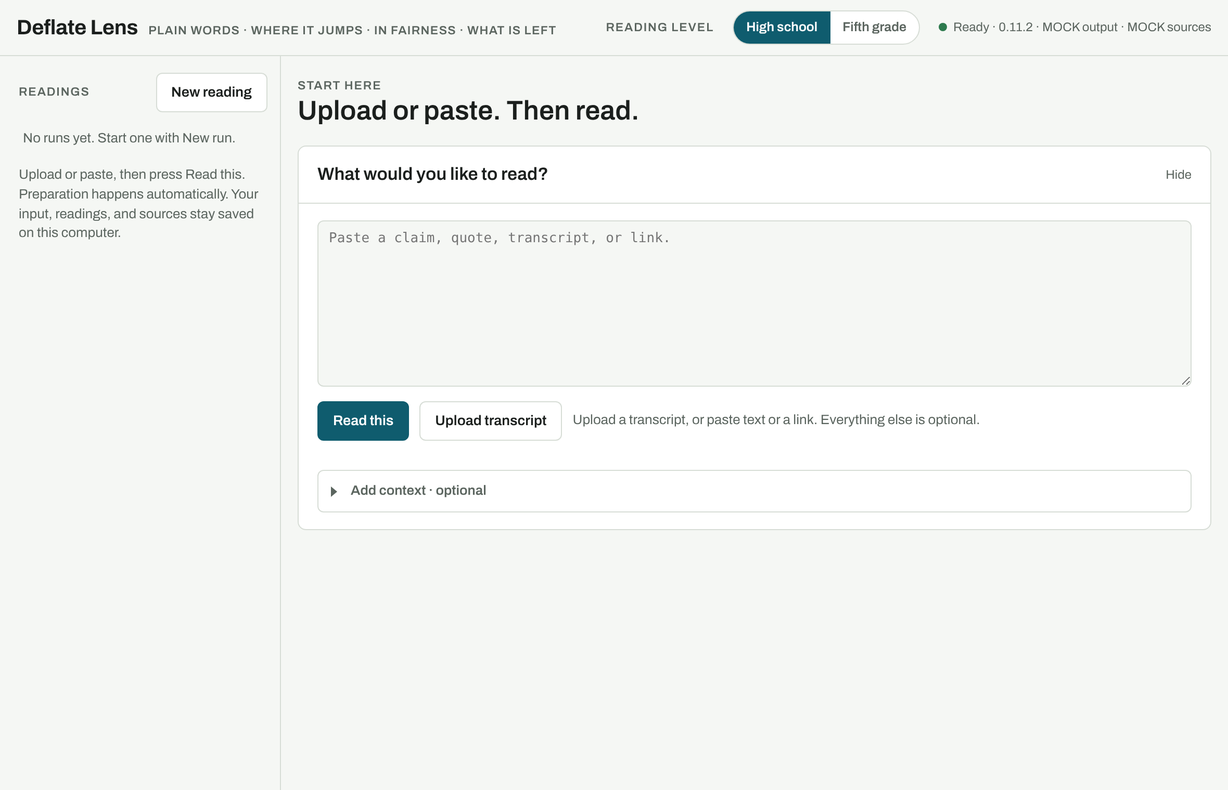
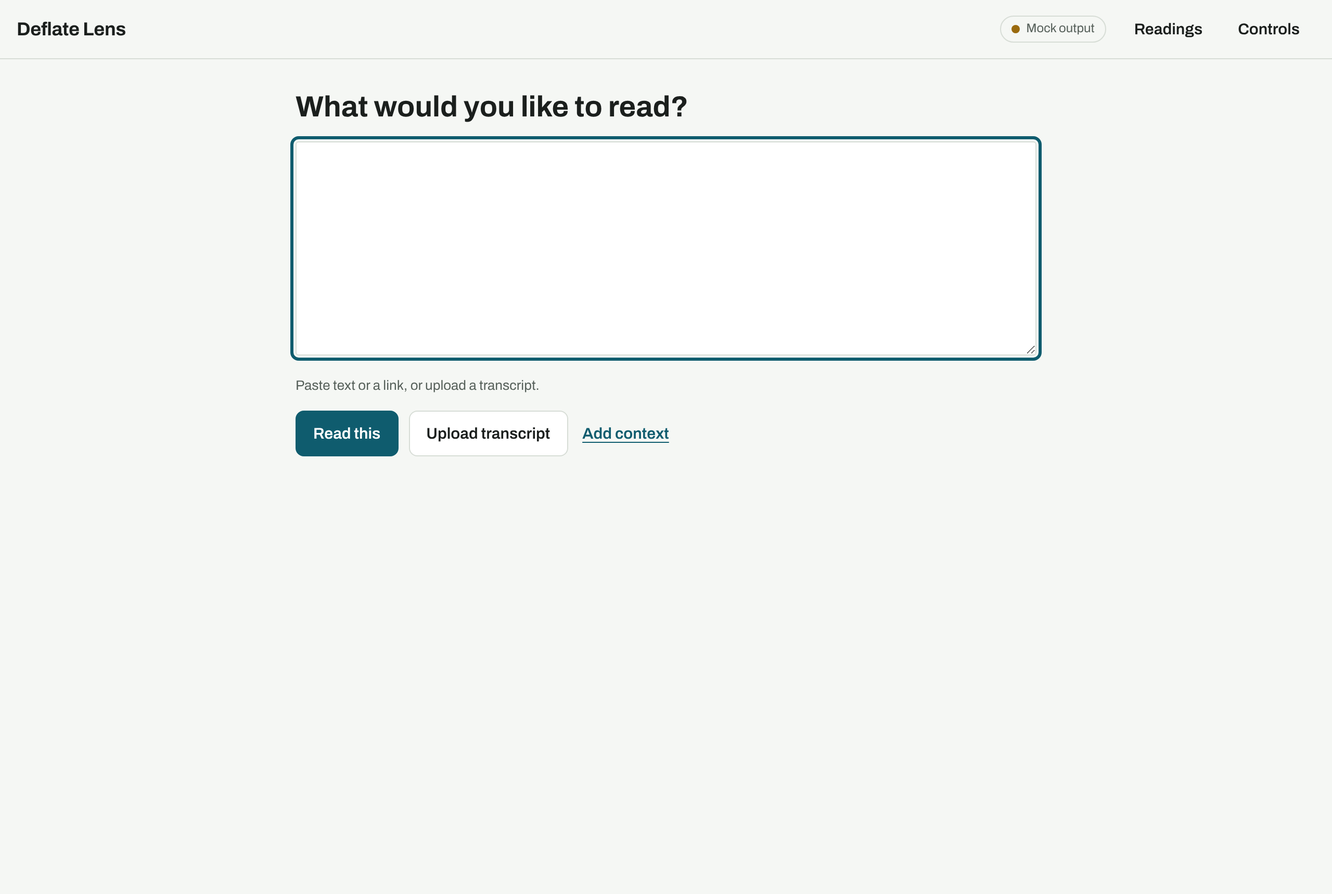
Screenshots of the 0.12 page: start, reading, Evidence, Controls, matched-source check, phone
Stand-in readings for the pictures are written to the reading-2 contract (the self-selected letters are
described as people who chose to write; quantities kept at both levels). All marked mock output.

Claude-Session: https://claude.ai/code/session_01Lg3dXKEkdQFJtRw4fXSjNY

diff --git a/scripts/screenshots.js b/scripts/screenshots.js
@@ -1,8 +1,9 @@
 "use strict";
-/* Regenerates the README screenshots in docs/screenshots/ from the real page in headless Chromium.
-   No key and no network: the podcast feed is a local fixture, and the readings come from a stand-in responder whose
-   text was written for these pictures (the page still labels it MOCK OUTPUT). The show, host and guest are invented.
-   Needs Playwright:  npm install --no-save playwright && npx playwright install chromium;  then  npm run screenshots */
+/* Regenerates the README and guide pictures in docs/screenshots/ from the real page in headless Chromium.
+   No key and no network: the podcast feed, the video search and its captions are local fixtures, and the readings come
+   from a stand-in responder whose text was written for these pictures (the page labels it Mock output). The show, host
+   and guest are invented. Needs Playwright:  npm install --no-save playwright;  then  npm run screenshots
+   (DEFLATE_CHROMIUM_EXECUTABLE points it at a Chromium already installed). */
 const fs = require("fs"), os = require("os"), path = require("path");
 const { createApp } = require("../server/app"), { createMockAI } = require("../server/ai"), { createResearch } = require("../server/research");
 
@@ -27,52 +28,53 @@ const TURNS = [
 const T = TURNS.map(([s, t]) => s + ": " + t).join("\n");
 const lv = (hs, g5) => ({ hs, g5 });
 const claim = (text, type, plain, basis, extra) => Object.assign({ text, speaker: "GUEST", type, plain, basis, status: "unchecked", wouldSettle: "", settle: lv("", "") }, extra || {});
+/* Written to the reading-2 contract: the reasons actually given, the fair reading, then a final assessment that names
+   what remains. (The self-selected letters are described as people who chose to write, not as proof of anything about
+   the people who did not.) */
 const READINGS = {
   0: {
-    asSaid: [{ turn: 1, speaker: "GUEST", quote: "Everybody who tries it for a month tells me their focus goes through the roof." }, { turn: 3, speaker: "GUEST", quote: "people who took cold showers called in sick 29% less" }],
-    deflated: lv("The guest says cold showers improve focus. His support is messages from readers who tried it, and a Dutch study in which people who took cold showers missed fewer days of work.", "He says cold showers help you focus. His proof is letters from readers and a study about sick days."),
+    asSaid: [{ turn: 1, speaker: "GUEST", quote: "Everybody who tries it for a month tells me their focus goes through the roof." }, { turn: 3, speaker: "GUEST", quote: "people who took cold showers called in sick twenty-nine percent less" }, { turn: 7, speaker: "GUEST", quote: "you should try it before you dismiss it" }],
+    deflated: lv("The guest says cold showers improve focus and calls them the best habit anyone can build. His reasons are messages from readers who tried them for a month, and a Dutch study in which people who took cold showers called in sick 29% less. When pressed, he narrows his claim to “try it before you dismiss it.”",
+      "He says cold showers help people focus and are the best habit there is. He points to messages from readers who tried it, and to a study where people who took cold showers called in sick 29% less. Later he says only that people should try it."),
     fidelity: { grade: "faithful", notes: lv("", "") },
-    jump: { present: true, pivot: "If you are not sick you get more done.", hs: "A study about fewer sick days is used as proof of better focus. Being at work more often is not the same as focusing better while there.", g5: "Missing fewer days of work is not the same as focusing better." },
-    defense: lv("Fewer sick days can mean more working time, which is a real gain. The reader messages describe real experiences, even if they are not a study.", "Missing less work is still good. And his readers really did feel better."),
-    revision: { jumpSurvives: "partly", hs: "The study may support “more days at work”, not “better focus”. The reader messages come only from people who chose to write in.", g5: "The study helps a little, but it is about sick days, not focus." },
+    jump: { present: true, pivot: "If you are not sick you get more done.", hs: "A study about sick days is used as evidence about focus. Fewer sick days does not show better focus at work.", g5: "Missing fewer work days is not the same as focusing better." },
+    defense: lv("Read as advice, the claim is modest: a cheap habit that some readers say helped them, worth trying. Fewer sick days could also mean more time at work, which is a real gain.", "If he means “give it a try,” that is a small claim. Missing fewer work days could mean more time to get work done."),
+    revision: { jumpSurvives: "partly", hs: "He is hearing from people who chose to write; other people may have had different results. The study, as he describes it, measured sick days, not focus. As a suggestion to try, the advice stands; as proof that cold showers improve focus for anyone, the reasons fall short.", g5: "He hears from people who chose to write to him. Other people may have had different results. The study counted sick days, not focus. So it is fine as something to try, but it does not show that cold showers help everyone focus." },
     claims: [
-      claim("Everybody who tries cold showers for a month reports much better focus.", "unsupported", lv("Everyone who tries cold showers for a month says they focus much better.", "Everyone who tries it says they focus better."), lv("Only people who wrote to him are counted; people it did not help would not write.", "He only hears from people who liked it.")),
-      claim("A study in the Netherlands found people who took cold showers called in sick 29% less.", "fact", lv("A Dutch study found that people who took cold showers missed 29% fewer days of work.", "A study found cold-shower people missed fewer work days."), lv("A study can be found and read; the claim is about sick days, not focus.", "We can look up this study."), { wouldSettle: "The published trial and what it measured.", settle: lv("The published Dutch trial: how many people, how long, and whether it measured focus or only sick days.", "The study itself: what it measured."), expectedSources: ["academic_paper"], searchQuery: "cold shower sickness absence randomized trial Netherlands" }),
+      claim("Everybody who tries it for a month tells me their focus goes through the roof.", "claim", lv("Everyone who tries cold showers for a month tells him their focus improves a lot. He later narrows this to the people who write to him.", "Everyone who tries it for a month tells him they focus much better. Later he says he means the people who write to him."), lv("The support is messages from readers who chose to write. The passage gives no count of people who tried it and did not write.", "His proof is letters from people who chose to write. We don't hear from people who didn't.")),
+      claim("There was a study in the Netherlands where people who took cold showers called in sick twenty-nine percent less.", "claim", lv("A study in the Netherlands found that people who took cold showers called in sick 29% less.", "A study in the Netherlands found that people who took cold showers missed 29% fewer work days."), lv("A study is named but not cited; it can be looked up. As described, it measured sick days.", "The study can be looked up. It counted sick days."), { wouldSettle: "The published trial and what it measured.", settle: lv("The published Dutch trial: how many people, for how long, and whether it measured focus or only sick days.", "The study itself: who was in it and what it counted."), expectedSources: ["academic_paper"], searchQuery: "cold shower sickness absence randomized trial Netherlands" }),
     ],
     judgments: { evidence: "weak", inference: "gap" },
   },
   8: {
-    asSaid: [{ turn: 9, speaker: "GUEST", quote: "Phones are destroying our attention." }, { turn: 13, speaker: "GUEST", quote: "I did that and wrote this whole book in six months." }],
-    deflated: lv("Phones hurt attention. A survey said people check their phones about 96 times a day. Keeping the phone in another room for the first hour worked for the author.", "Phones make it hard to pay attention. Putting the phone away for an hour helped him write his book."),
+    asSaid: [{ turn: 9, speaker: "GUEST", quote: "Phones are destroying our attention." }, { turn: 11, speaker: "GUEST", quote: "It is from a survey a few years ago. I think it is still about right." }, { turn: 13, speaker: "GUEST", quote: "I did that and wrote this whole book in six months." }],
+    deflated: lv("The guest says phones are destroying attention. He cites a survey figure of about 96 phone checks a day, from a few years ago, which he thinks is still about right. His fix is to leave the phone in another room for the first hour; he did that and wrote his book in six months.",
+      "He says phones are hurting our attention. He remembers a survey that said people check their phones about 96 times a day, and he thinks that is still close. His tip is to keep the phone in another room for the first hour. He did that and wrote his book in six months."),
     fidelity: { grade: "faithful", notes: lv("", "") },
-    jump: { present: true, pivot: "I did that and wrote this whole book in six months.", hs: "One person’s success is offered as proof that the fix works. It shows the fix can work for someone, not that it works for most people.", g5: "It worked for him. That does not mean it works for everyone." },
-    defense: lv("He offers his own story as an example, and the advice costs nothing to try.", "He is just sharing what worked for him, and it is free to try."),
-    revision: { jumpSurvives: "partly", hs: "As advice, it is reasonable to try. As proof that it works, one story is not enough.", g5: "Fine to try. Not proof." },
+    jump: { present: true, pivot: "I did that and wrote this whole book in six months.", hs: "One person’s result is offered as evidence that the fix works. It shows the habit can work for someone, not that it works for most people.", g5: "It worked for him. That does not show it works for most people." },
+    defense: lv("As personal advice, the suggestion costs little, and his own result shows it can work for at least one person.", "It is free to try, and it did work for him."),
+    revision: { jumpSurvives: "partly", hs: "His own result shows the habit can work for someone, not that it works for most people. The survey figure is unsourced and, by his account, a few years old. The broad claim that phones are “destroying” attention is not supported by these reasons; the advice to try an hour without the phone stands as a suggestion.", g5: "His story shows it can work for one person. We don't know where the survey number came from, and it is a few years old. So the big claim about phones is not shown here. Trying an hour without your phone is still a fair idea to try." },
     claims: [
-      claim("The average person checks their phone ninety-six times a day.", "fact", lv("The average person checks their phone about 96 times a day.", "People check their phones about 96 times a day."), lv("He names a survey but not which one; the number can be looked up.", "We can look for the survey."), { wouldSettle: "The survey behind the number.", settle: lv("The survey itself: who was asked, when, and how “checks” was counted.", "Find the survey and see how they counted."), expectedSources: ["academic_paper"], searchQuery: "smartphone checks per day survey average" }),
-      claim("Leaving the phone in another room for the first hour helped him write a book in six months.", "interpretation", lv("Keeping his phone away for an hour each morning helped him finish his book in six months.", "Putting his phone away helped him write fast."), lv("It is his own account of his own year.", "Only he knows this.")),
+      claim("The average person checks their phone ninety-six times a day.", "claim", lv("The average person checks their phone about 96 times a day, according to a survey from a few years ago.", "People check their phones about 96 times a day, a survey said a few years ago."), lv("He names a survey but not which one; he says it is a few years old.", "He doesn't say which survey."), { wouldSettle: "The survey behind the number.", settle: lv("The survey itself: who was asked, when, and how a “check” was counted.", "Find the survey and see how they counted."), expectedSources: ["survey_report"], searchQuery: "smartphone checks per day survey average" }),
+      claim("Phones are destroying our attention.", "claim", lv("Phones are seriously harming people's attention.", "Phones are badly hurting how well people pay attention."), lv("No support is given in this passage beyond the survey figure about checking.", "He gives no proof here except the number about checking phones."), { wouldSettle: "Research on phone use and attention.", settle: lv("Studies that measure attention before and after changes in phone use.", "Studies that test attention when people use their phones less."), expectedSources: ["academic_paper"], searchQuery: "smartphone use attention span longitudinal study" }),
+      claim("Leave it in another room for the first hour.", "value", lv("He recommends keeping the phone in another room for the first hour of the day.", "He suggests keeping your phone in another room for the first hour."), lv("A recommendation, supported by his own experience.", "This is his advice, from what worked for him.")),
     ],
     judgments: { evidence: "weak", inference: "gap" },
   },
 };
+const OVERVIEW = { patterns: [{ title: lv("Evidence about a few people stands in for a general rule", "A few people's results are treated as a rule"), body: lv("In both passages the final assessment finds the same gap: results from people who chose to write in, or from the author himself, are offered as if they showed what will happen for anyone.", "Both times, what happened to a few people is used to say what will happen to everyone."), passages: ["p001", "p002"] }], survived: lv("Two habits that are cheap to try, and a named study worth reading for what it actually measured.", "Two free things to try, and one study to read.") };
 function standIn() {
   const base = createMockAI();
+  const answer = (data, id) => ({ data: JSON.parse(JSON.stringify(data)), text: JSON.stringify(data), usage: null, model: "mock", requestId: "shot_" + id, stopReason: "end_turn" });
   return Object.assign({}, base, {
     async sample(req) {
       const p = String(req.prompt || "");
-      if (p.startsWith("You are a deflation reader") && !p.startsWith("You are a deflation reader grading ONE claim")) {
-        const first = Number((/^\[(\d+)\] /m.exec(p) || [])[1]);
-        const data = READINGS[first];
-        if (data) return { data: JSON.parse(JSON.stringify(data)), text: JSON.stringify(data), usage: null, model: "mock", requestId: "shot_" + first, stopReason: "end_turn" };
+      if (p.startsWith("Help a reader understand this passage accurately.") && !p.includes("This is ONE claim")) {
+        const first = Number((/PASSAGE \(turns (\d+)/.exec(p) || [])[1]);
+        if (READINGS[first] && /Passage title: (Cold showers and focus|Phones and attention)/.test(p)) return answer(READINGS[first], first);
       }
-      if (p.startsWith("Split this transcript")) {
-        const data = { passages: [{ title: "Cold showers and focus", turnStart: 0, turnEnd: 7, stake: "Whether cold showers make people more productive." }, { title: "Phones and attention", turnStart: 8, turnEnd: 15, stake: "Whether keeping the phone away helps people focus." }] };
-        return { data, text: JSON.stringify(data), usage: null, model: "mock", requestId: "shot_segment", stopReason: "end_turn" };
-      }
-      if (/^Below are the (full )?results of deflating/.test(p)) {
-        const data = { patterns: [{ title: lv("One person’s result stands in for a rule", "One story used as proof"), body: lv("Both times, a result that holds for some people (readers who wrote in, the author himself) is presented as what will happen to anyone.", "Twice, he takes what worked for a few people and says it works for everyone."), passages: ["p001", "p002"] }], survived: lv("Two habits that are cheap to try, and one study worth reading for what it actually measured.", "Two free things to try, and one study to read.") };
-        return { data, text: JSON.stringify(data), usage: null, model: "mock", requestId: "shot_patterns", stopReason: "end_turn" };
-      }
+      if (p.startsWith("Split this transcript") && p.includes("The Long Table")) return answer({ passages: [{ title: "Cold showers and focus", turnStart: 0, turnEnd: 7, stake: "Whether cold showers make people more productive." }, { title: "Phones and attention", turnStart: 8, turnEnd: 15, stake: "Whether keeping the phone away helps people focus." }] }, "segment");
+      if (p.startsWith("Below are the final readings of 2 passages") && p.includes("Cold showers and focus")) return answer(OVERVIEW, "overview");
       return base.sample(req);
     },
   });
@@ -81,48 +83,77 @@ function standIn() {
 const VTT = "WEBVTT\n\n" + TURNS.map(([s, t], i) => "00:00:" + String(i * 3).padStart(2, "0") + ".000 --> 00:00:" + String(i * 3 + 3).padStart(2, "0") + ".000\n<v " + s + ">" + t + "\n").join("\n");
 const FEED = '<?xml version="1.0"?><rss version="2.0" xmlns:podcast="https://podcastindex.org/namespace/1.0" xmlns:itunes="http://www.itunes.com/dtds/podcast-1.0.dtd"><channel><title>The Long Table</title><link>https://longtable.example/</link>' +
   '<item><title>Cold showers, phones, and the perfect morning</title><guid>ep-41</guid><pubDate>Thu, 01 Oct 2026 10:00:00 GMT</pubDate><itunes:duration>3120</itunes:duration><enclosure url="https://cdn.longtable.example/41.mp3" type="audio/mpeg"/><podcast:transcript url="https://longtable.example/41.vtt" type="text/vtt"/></item>' +
-  '<item><title>Why we stopped trusting experts</title><guid>ep-40</guid><pubDate>Thu, 24 Sep 2026 10:00:00 GMT</pubDate><itunes:duration>4380</itunes:duration><enclosure url="https://cdn.longtable.example/40.mp3" type="audio/mpeg"/></item>' +
-  '<item><title>The four-day week, a year later</title><guid>ep-39</guid><pubDate>Thu, 17 Sep 2026 10:00:00 GMT</pubDate><itunes:duration>2700</itunes:duration><enclosure url="https://cdn.longtable.example/39.mp3" type="audio/mpeg"/><podcast:transcript url="https://longtable.example/39.vtt" type="text/vtt"/></item></channel></rss>';
+  '<item><title>Why we stopped trusting experts</title><guid>ep-40</guid><pubDate>Thu, 24 Sep 2026 10:00:00 GMT</pubDate><itunes:duration>4380</itunes:duration><enclosure url="https://cdn.longtable.example/40.mp3" type="audio/mpeg"/></item></channel></rss>';
 const fakeFetch = async url => {
-  const u = String(url), res = (status, body, type) => ({ status, url: u, headers: { get: k => /content-type/i.test(k) ? type || "text/plain" : null }, text: async () => body });
-  if (u === "https://longtable.example/feed.xml") { await new Promise(r => setTimeout(r, 300)); return res(200, FEED, "application/rss+xml"); }
+  const u = String(url), res = (status, body, type) => ({ status, url: u, headers: { get: k => /content-type/i.test(k) ? type || "text/plain" : null }, text: async () => typeof body === "string" ? body : JSON.stringify(body) });
+  if (u === "https://longtable.example/feed.xml") return res(200, FEED, "application/rss+xml");
   if (u === "https://longtable.example/41.vtt") return res(200, VTT, "text/vtt");
+  if (/youtube\.com\/oembed/.test(u)) return res(200, { title: "The Long Table — Why we stopped trusting experts (full episode)", author_name: "Long Table Clips" }, "application/json");
   return res(404, "not found");
+};
+// episode 40 has no transcript; a video search finds a full upload with a matching title and length, with captions
+const fakeYtdlp = async (cmd, a) => {
+  if (a[0] === "--version") return { code: 0, out: "2026.09.01\n", err: "" };
+  const last = String(a[a.length - 1]);
+  if (last.startsWith("ytsearch")) return { code: 0, out: "LongTable40\tThe Long Table — Why we stopped trusting experts (full episode)\tLong Table Clips\t4296\n", err: "" };
+  if (a.includes("--skip-download")) { if (a.includes("--write-auto-subs")) fs.writeFileSync(a[a.indexOf("-o") + 1].replace("%(id)s", "LongTable40.en.json3"), JSON.stringify({ events: [{ segs: [{ utf8: "welcome back to the long table today we are talking about trust and experts and why so many people stopped listening to them ".repeat(12) }] }] })); return { code: 0, out: "", err: "" }; }
+  return { code: 1, out: "", err: "?" };
 };
 
 (async () => {
   const { chromium } = require("playwright");
   const dir = fs.mkdtempSync(path.join(os.tmpdir(), "deflate-shots-")), out = path.join(__dirname, "..", "docs", "screenshots");
   fs.mkdirSync(out, { recursive: true });
-  const system = createApp({ dataDir: dir, ai: standIn(), research: createResearch({ DEFLATE_MOCK_RESEARCH: "1" }), fetch: fakeFetch, run: async () => ({ code: -1, out: "", err: "ENOENT" }), env: {}, envPath: path.join(dir, ".env"), examplesDir: path.join(dir, "no-examples") });
+  const system = createApp({ dataDir: dir, ai: standIn(), research: createResearch({ DEFLATE_MOCK_RESEARCH: "1" }), fetch: fakeFetch, run: fakeYtdlp, env: {}, envPath: path.join(dir, ".env"), examplesDir: path.join(dir, "no-examples") });
   await system.ready;
   const server = await new Promise(r => { const s = system.app.listen(0, "127.0.0.1", () => r(s)); });
-  const browser = await chromium.launch({ headless: true });
-  const ready = page => page.waitForFunction(() => { const s = document.querySelector("#reading-status"); return s && /Your reading is ready/.test(s.textContent); }, null, { timeout: 60000 });
+  const browser = await chromium.launch({ headless: true, ...(process.env.DEFLATE_CHROMIUM_EXECUTABLE ? { executablePath: process.env.DEFLATE_CHROMIUM_EXECUTABLE } : {}) });
+  const ready = page => page.waitForFunction(() => /Your reading is ready/.test((document.querySelector("#reading-status") || {}).textContent || ""), null, { timeout: 60000 });
+  const root = "http://127.0.0.1:" + server.address().port;
   try {
-    const page = await browser.newPage({ viewport: { width: 1180, height: 760 }, deviceScaleFactor: 2 });
-    await page.goto("http://127.0.0.1:" + server.address().port); await page.waitForSelector("#f-text");
-    await page.locator("#newRun").click().catch(() => {});
+    const page = await browser.newPage({ viewport: { width: 1280, height: 860 }, deviceScaleFactor: 2 });
+    await page.goto(root); await page.waitForSelector("#f-text");
     await page.screenshot({ path: path.join(out, "1-start.png") });
-    // a podcast link: the show's episodes, then the transcript fetched and the reading started in one action
-    await page.fill("#f-text", "https://longtable.example/feed.xml");
-    await page.locator("#stage-intake .btn.primary").click();
-    await page.waitForSelector("#stage-intake .episodes .btn.ep", { timeout: 20000 });
-    await page.locator("#stage-intake").screenshot({ path: path.join(out, "2-podcast.png") });
-    await page.locator("#stage-intake .episodes .btn.ep").first().click();
-    await ready(page);
+    // a show's feed: pick the episode with a transcript; the reading starts by itself
+    await page.fill("#f-text", "https://longtable.example/feed.xml"); await page.locator("#readThis").click();
+    await page.waitForSelector("#intake .episodes .btn.ep", { timeout: 20000 });
+    await page.locator("#intake .episodes .btn.ep").first().click(); await ready(page);
+    await page.addStyleTag({ content: ".top{position:static !important} #say{display:none!important}" });
     await page.evaluate(() => window.scrollTo(0, 0));
-    // the top bar sticks to the window; for pictures of a single card it stays in its place instead
-    await page.addStyleTag({ content: ".top{position:static !important}" });
+    await page.screenshot({ path: path.join(out, "2-reading.png") });
     const card = page.locator(".card").first();
-    await card.locator("header button:has-text('Quotes')").click();
-    await card.screenshot({ path: path.join(out, "3-card.png") });
-    await card.locator("header button:has-text('Quotes')").click();
-    // the same card at the fifth-grade level, on a phone
+    await card.locator("details.evidence > summary").click();
+    // from the Evidence heading to the end of "Reasoning behind this reading", in page coordinates
+    const clip = await card.evaluate(c => { const ev = c.querySelector("details.evidence").getBoundingClientRect(), rs = c.querySelector("details.evidence .reasoning").getBoundingClientRect(); return { x: ev.left - 24, y: ev.top + scrollY - 8, width: ev.width + 48, height: rs.bottom - ev.top + 24 }; });
+    await page.screenshot({ path: path.join(out, "3-evidence.png"), clip, fullPage: true });
+    await card.locator("details.evidence > summary").click();
+    await page.locator("#controlsBtn").click(); await page.waitForSelector("#controls:not([hidden])");
+    await page.screenshot({ path: path.join(out, "4-controls.png") });
+    await page.keyboard.press("Escape");
+    // the exception: a video found by searching for the episode's title and length, checked against the episode
+    await page.locator("#readingsBtn").click(); await page.locator("#newRun").click();
+    await page.fill("#f-text", "https://longtable.example/feed.xml"); await page.locator("#readThis").click();
+    await page.waitForSelector("#intake .episodes .btn.ep", { timeout: 20000 });
+    await page.locator("#intake .episodes .btn.ep").nth(1).click(); await ready(page);
+    await page.addStyleTag({ content: ".top{position:static !important} #say{display:none!important}" });
+    await page.locator(".notice.source button:has-text('Check source')").click();
+    const head = await page.locator("#run-head").boundingBox(), notices = await page.locator("#notices").boundingBox();
+    await page.screenshot({ path: path.join(out, "5-source-check.png"), clip: { x: head.x - 24, y: head.y - 16, width: head.width + 48, height: notices.y + notices.height - head.y + 32 } });
+    // a phone: the same reading at the fifth-grade level, and Controls
     await page.setViewportSize({ width: 390, height: 844 });
-    await card.locator("header button:has-text('Fifth grade')").click();
-    await card.scrollIntoViewIfNeeded();
-    await card.screenshot({ path: path.join(out, "4-phone-fifth-grade.png") });
+    await page.locator("#readingsBtn").click(); await page.locator("#runList button").filter({ hasText: "Cold showers" }).first().click();
+    await page.waitForSelector(".card");
+    await page.addStyleTag({ content: ".top{position:static !important} #say{display:none!important}" });
+    const c2 = page.locator(".card").first();
+    await c2.locator(".levels button:has-text('Fifth grade')").click();
+    await c2.scrollIntoViewIfNeeded();
+    await c2.screenshot({ path: path.join(out, "6-phone-fifth-grade.png") });
+    await page.evaluate(() => window.scrollTo(0, 0));
+    await page.locator("#controlsBtn").click(); await page.waitForSelector("#controls:not([hidden])");
+    await page.screenshot({ path: path.join(out, "7-phone-controls.png") });
+    await page.keyboard.press("Escape");
+    await page.goto(root + "/#"); await page.locator("#readingsBtn").click(); await page.locator("#newRun").click();
+    await page.screenshot({ path: path.join(out, "8-phone-start.png") });
     console.log("wrote", fs.readdirSync(out).join(", "));
   } finally {
     for (const job of system.reader.jobs.values()) job.controller.abort();

diff --git a/public/styles.css b/public/styles.css
@@ -114,7 +114,7 @@ details[open] > summary::before{transform:rotate(90deg)}
 .read-status .keybox{flex-basis:100%;order:3}
 @keyframes pulse{50%{opacity:.25}}
 @media (prefers-reduced-motion: reduce){ .read-status.running .reading-message::before{animation:none} }
-.contents{margin:8px 0 4px;border-top:1px solid var(--line);border-bottom:1px solid var(--line)}
+.contents{margin:8px 0 0;border-top:1px solid var(--line)}
 .toc{margin:0 0 10px;padding:0;list-style:none;font-family:var(--display);font-size:.9375rem}
 .toc a{display:flex;flex-wrap:wrap;gap:0 .4em;padding:9px 0;text-decoration:none;min-height:44px;align-items:center}
 .toc a:hover .pos + *{text-decoration:underline}
